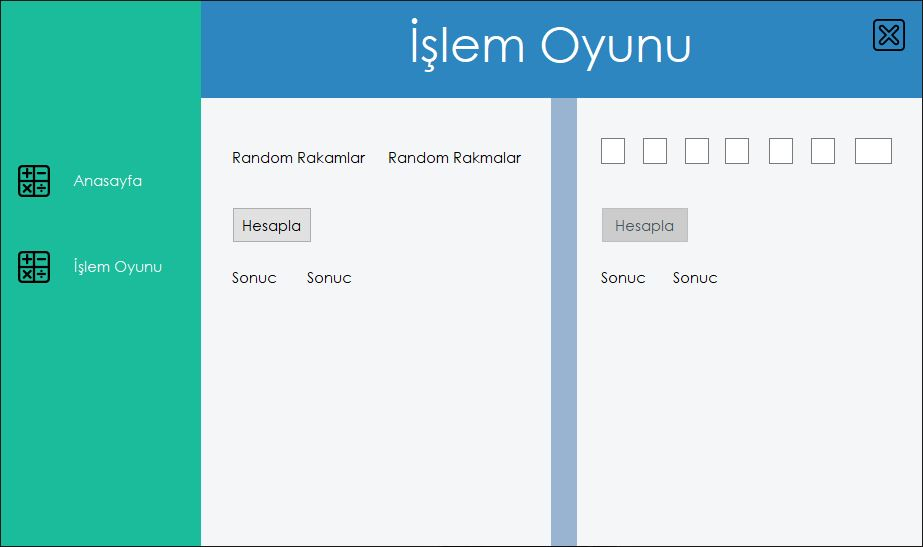
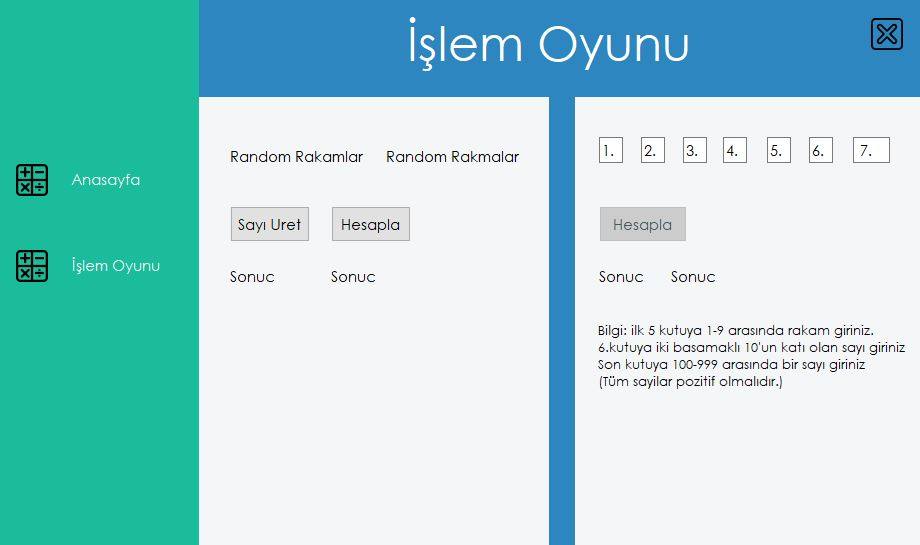
adding placeholder to textboxts

diff --git a/UserControlIslem.Designer.cs b/UserControlIslem.Designer.cs
@@ -44,6 +44,8 @@
             this.label6 = new System.Windows.Forms.Label();
             this.label7 = new System.Windows.Forms.Label();
             this.label8 = new System.Windows.Forms.Label();
+            this.labelBilgi = new System.Windows.Forms.Label();
+            this.buttonSayiUret = new System.Windows.Forms.Button();
             this.SuspendLayout();
             // 
             // label1
@@ -60,7 +62,7 @@
             // 
             this.label2.AutoSize = true;
             this.label2.Font = new System.Drawing.Font("Century Gothic", 11.25F, System.Drawing.FontStyle.Regular, System.Drawing.GraphicsUnit.Point, ((byte)(0)));
-            this.label2.Location = new System.Drawing.Point(102, 169);
+            this.label2.Location = new System.Drawing.Point(128, 169);
             this.label2.Name = "label2";
             this.label2.Size = new System.Drawing.Size(54, 20);
             this.label2.TabIndex = 1;
@@ -69,7 +71,7 @@
             // hesapla_rndm
             // 
             this.hesapla_rndm.Font = new System.Drawing.Font("Century Gothic", 11.25F, System.Drawing.FontStyle.Regular, System.Drawing.GraphicsUnit.Point, ((byte)(0)));
-            this.hesapla_rndm.Location = new System.Drawing.Point(31, 109);
+            this.hesapla_rndm.Location = new System.Drawing.Point(132, 109);
             this.hesapla_rndm.Name = "hesapla_rndm";
             this.hesapla_rndm.Size = new System.Drawing.Size(80, 36);
             this.hesapla_rndm.TabIndex = 2;
@@ -89,7 +91,7 @@
             // 
             // panel1
             // 
-            this.panel1.BackColor = System.Drawing.SystemColors.ActiveCaption;
+            this.panel1.BackColor = System.Drawing.Color.FromArgb(((int)(((byte)(46)))), ((int)(((byte)(134)))), ((int)(((byte)(193)))));
             this.panel1.Location = new System.Drawing.Point(350, 0);
             this.panel1.Name = "panel1";
             this.panel1.Size = new System.Drawing.Size(26, 448);
@@ -102,6 +104,8 @@
             this.textBox1.Name = "textBox1";
             this.textBox1.Size = new System.Drawing.Size(24, 26);
             this.textBox1.TabIndex = 6;
+            this.textBox1.Text = "1.";
+            this.textBox1.Enter += new System.EventHandler(this.EnterTextBox1);
             // 
             // textBox2
             // 
@@ -110,6 +114,8 @@
             this.textBox2.Name = "textBox2";
             this.textBox2.Size = new System.Drawing.Size(24, 26);
             this.textBox2.TabIndex = 7;
+            this.textBox2.Text = "2.";
+            this.textBox2.Enter += new System.EventHandler(this.EnterTextBox2);
             // 
             // textBox3
             // 
@@ -118,6 +124,8 @@
             this.textBox3.Name = "textBox3";
             this.textBox3.Size = new System.Drawing.Size(24, 26);
             this.textBox3.TabIndex = 8;
+            this.textBox3.Text = "3.";
+            this.textBox3.Enter += new System.EventHandler(this.EnterTextBox3);
             // 
             // textBox4
             // 
@@ -126,6 +134,8 @@
             this.textBox4.Name = "textBox4";
             this.textBox4.Size = new System.Drawing.Size(24, 26);
             this.textBox4.TabIndex = 9;
+            this.textBox4.Text = "4.";
+            this.textBox4.Enter += new System.EventHandler(this.EnterTextBox4);
             // 
             // textBox5
             // 
@@ -134,6 +144,8 @@
             this.textBox5.Name = "textBox5";
             this.textBox5.Size = new System.Drawing.Size(24, 26);
             this.textBox5.TabIndex = 10;
+            this.textBox5.Text = "5.";
+            this.textBox5.Enter += new System.EventHandler(this.EnterTextBox5);
             // 
             // textBox6
             // 
@@ -142,6 +154,8 @@
             this.textBox6.Name = "textBox6";
             this.textBox6.Size = new System.Drawing.Size(24, 26);
             this.textBox6.TabIndex = 11;
+            this.textBox6.Text = "6.";
+            this.textBox6.Enter += new System.EventHandler(this.EnterTextBox6);
             // 
             // textBox7
             // 
@@ -150,8 +164,9 @@
             this.textBox7.Name = "textBox7";
             this.textBox7.Size = new System.Drawing.Size(37, 26);
             this.textBox7.TabIndex = 12;
-            this.textBox7.Text = " ";
+            this.textBox7.Text = " 7.";
             this.textBox7.TextChanged += new System.EventHandler(this.textBox7_TextChanged);
+            this.textBox7.Enter += new System.EventHandler(this.EnterTextBox7);
             // 
             // hesapla_user
             // 
@@ -194,10 +209,33 @@
             this.label8.TabIndex = 17;
             this.label8.Text = "Sonuc";
             // 
+            // labelBilgi
+            // 
+            this.labelBilgi.AutoSize = true;
+            this.labelBilgi.Font = new System.Drawing.Font("Century Gothic", 9.75F, System.Drawing.FontStyle.Regular, System.Drawing.GraphicsUnit.Point, ((byte)(0)));
+            this.labelBilgi.Location = new System.Drawing.Point(396, 225);
+            this.labelBilgi.Name = "labelBilgi";
+            this.labelBilgi.Size = new System.Drawing.Size(33, 17);
+            this.labelBilgi.TabIndex = 18;
+            this.labelBilgi.Text = "Bilgi";
+            // 
+            // buttonSayiUret
+            // 
+            this.buttonSayiUret.Font = new System.Drawing.Font("Century Gothic", 11.25F, System.Drawing.FontStyle.Regular, System.Drawing.GraphicsUnit.Point, ((byte)(0)));
+            this.buttonSayiUret.Location = new System.Drawing.Point(31, 109);
+            this.buttonSayiUret.Name = "buttonSayiUret";
+            this.buttonSayiUret.Size = new System.Drawing.Size(80, 36);
+            this.buttonSayiUret.TabIndex = 19;
+            this.buttonSayiUret.Text = "Sayı Uret";
+            this.buttonSayiUret.UseVisualStyleBackColor = true;
+            this.buttonSayiUret.Click += new System.EventHandler(this.buttonSayiUret_Click);
+            // 
             // UserControlIslem
             // 
             this.AutoScaleDimensions = new System.Drawing.SizeF(6F, 13F);
             this.AutoScaleMode = System.Windows.Forms.AutoScaleMode.Font;
+            this.Controls.Add(this.buttonSayiUret);
+            this.Controls.Add(this.labelBilgi);
             this.Controls.Add(this.label8);
             this.Controls.Add(this.label7);
             this.Controls.Add(this.label6);
@@ -240,5 +278,7 @@
         private System.Windows.Forms.Label label6;
         private System.Windows.Forms.Label label7;
         private System.Windows.Forms.Label label8;
+        private System.Windows.Forms.Label labelBilgi;
+        private System.Windows.Forms.Button buttonSayiUret;
     }
 }

diff --git a/UserControlIslem.cs b/UserControlIslem.cs
@@ -14,12 +14,19 @@ namespace _1kelime1islemtemiz01
         static int uchaneli = 0;               // Uc haneli hedef sayıyı tutacak değişken
         static int enyakin = 0;                // En yakin sonucu tutacak değişken
         static Random random = new Random();   // Random nesnemiz
+
         //
-        // Hesapla Butonu random sayilari uretip hesaplar
+        // Random Sayilari uretecek buton
+        //
+        private void buttonSayiUret_Click(object sender, EventArgs e)
+        {
+            rndmSayiUret();  // Random sayi ureten fonksiyon      
+        }
+        //
+        // Hesapla Butonu random sayilari hesaplar
         // 
         private void hesapla_rndm_Click(object sender, EventArgs e)
-        {
-            rndmSayiUret();  // Random sayi ureten fonksiyon       
+        {  
             hesapla(label2); // Random sayileri hesaplayacak fonksiyon Hangi labela yazdiracak bilgisinide gönderiyoruz 
         }
         //
@@ -44,6 +51,10 @@ namespace _1kelime1islemtemiz01
         private void UserControlIslem_Load(object sender, EventArgs e)
         {
             hesapla_user.Enabled = false; // Kullanıcı tarafından girilecek sayıları hesaplayan butonun durumu
+            labelBilgi.Text = "Bilgi: ilk 5 kutuya 1-9 arasında rakam giriniz.\n"
+                              + "6.kutuya iki basamaklı 10'un katı olan sayı giriniz\n"
+                              + "Son kutuya 100-999 arasında bir sayı giriniz\n"
+                              + "(Tüm sayilar pozitif olmalıdır.)";//Bilgilendirme Metni
         }
         //
         // Son textboxi kontrol edecek fonksiyon
@@ -129,8 +140,60 @@ namespace _1kelime1islemtemiz01
                     break;
                 }
 
-                if (sinir > 100000) break; // Program sonsuz döngüye girmesin diye sınır kontrolu
+                if (sinir > 150000) break; // Program sonsuz döngüye girmesin diye sınır kontrolu
                 else continue;
+            }
+        }
+        //
+        // TextBoxlara tıklandığında numaraların kaybolması için yazdığım bölüm(placeholder)
+        //
+        private void EnterTextBox1(object sender, EventArgs e)
+        {
+            if (textBox1.Text != "")
+            {
+                textBox1.Text = ""; // TextBox1 için
+            }
+        }
+        private void EnterTextBox2(object sender, EventArgs e)
+        {
+            if (textBox2.Text != "")
+            {
+                textBox2.Text = ""; // TextBox2 için
+            }
+        }
+        private void EnterTextBox3(object sender, EventArgs e)
+        {
+            if (textBox3.Text != "")
+            {
+                textBox3.Text = ""; // TextBox3 için
+            }
+        }
+        private void EnterTextBox4(object sender, EventArgs e)
+        {
+            if (textBox4.Text != "")
+            {
+                textBox4.Text = ""; // TextBox4 için
+            }
+        }
+        private void EnterTextBox5(object sender, EventArgs e)
+        {
+            if (textBox5.Text != "")
+            {
+                textBox5.Text = ""; // TextBox5 için
+            }
+        }
+        private void EnterTextBox6(object sender, EventArgs e)
+        {
+            if (textBox6.Text != "")
+            {
+                textBox6.Text = ""; // TextBox6 için
+            }
+        }
+        private void EnterTextBox7(object sender, EventArgs e)
+        {
+            if (textBox7.Text != "")
+            {
+                textBox7.Text = ""; // TextBox7 için
             }
         }
     }
